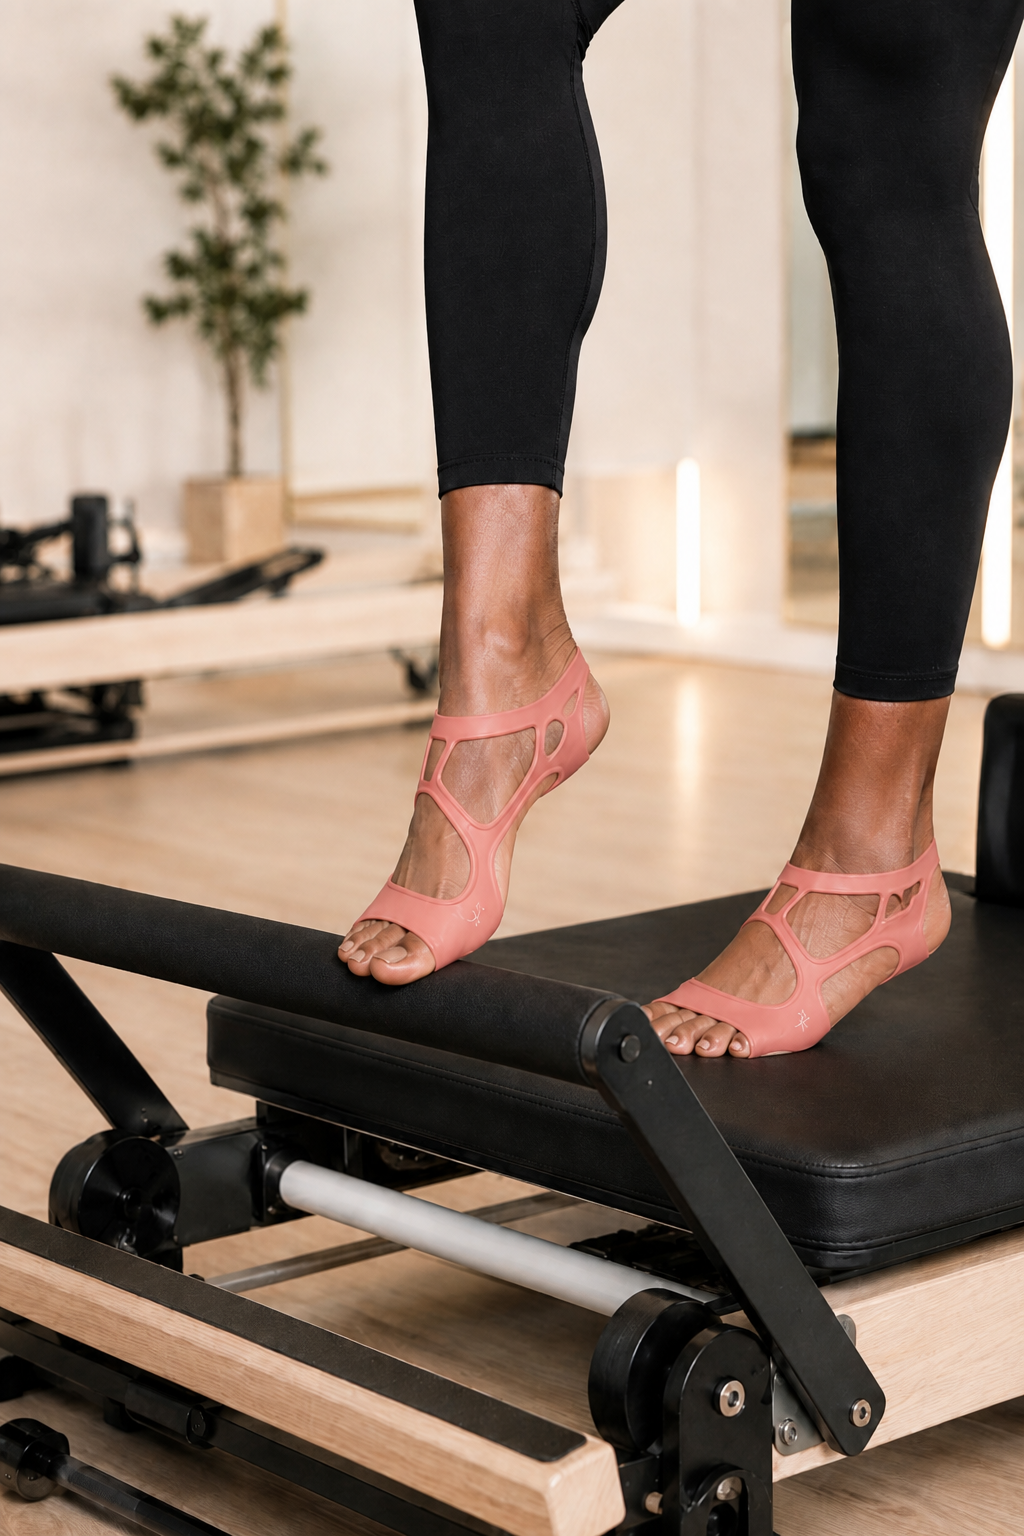
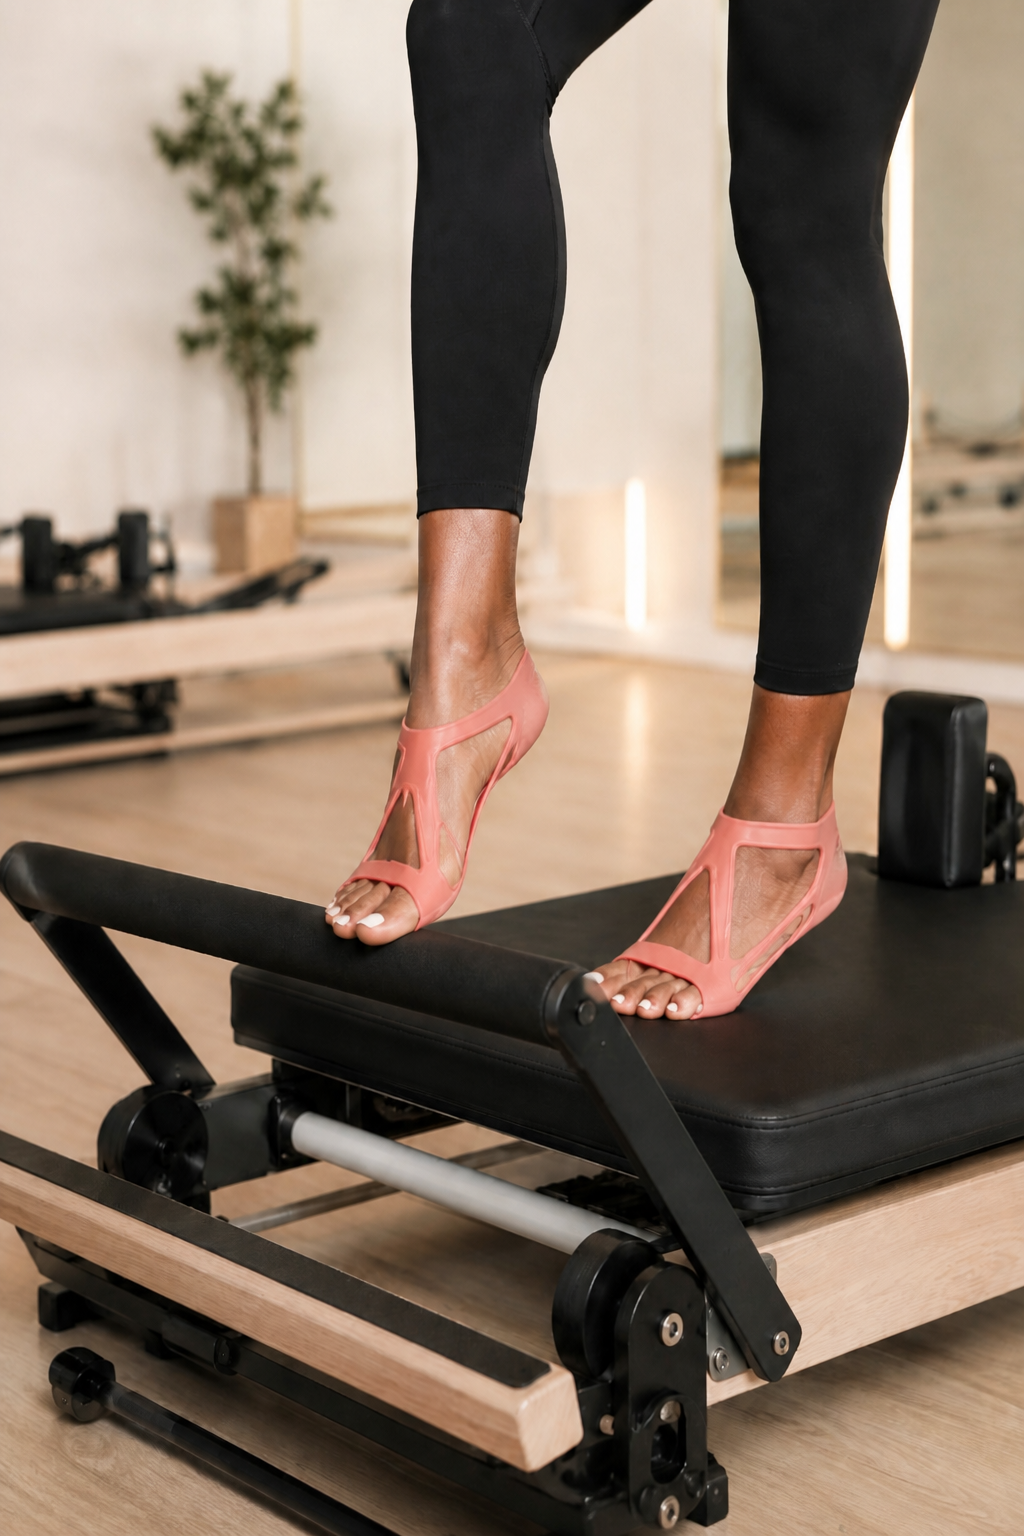
Last pass: copy homepage/customer close-ups. Skill now holds those refs.

diff --git a/.cursor/skills/barreletics-product-on-foot/SKILL.md b/.cursor/skills/barreletics-product-on-foot/SKILL.md
@@ -2,87 +2,86 @@
 name: barreletics-product-on-foot
 description: >-
   Composite the real Barreletics Performance Skin onto feet by copying website
-  on-foot photos only. Use when putting the shoe on a lifestyle shot, Sock Math
-  photos, ChatGPT studio feet, “add the shoe,” Closed/Open on-foot, or any
-  generated product-on-foot image. Never invent a new shoe from a packshot.
+  close-ups of the shoe already on a foot. Use when adding the shoe to a lifestyle
+  shot, Sock Math photos, ChatGPT studio feet, or any product-on-foot generate.
+  Never invent a shoe. Never use an empty packshot as the only ref.
 ---
 
 # Barreletics product on a foot
 
-Andrew 2026-08-15: *look at pictures on the website with the shoe on a foot and just copy that.*
+Andrew 2026-08-15: *look at existing images on feet. there are plenty of close ups.*
 
-Empty packshots lie. Agents invent sneakers, extra straps, melted cages. **Worn site photos are the only shoe reference.**
+**Read the close-ups in `refs/` before you generate. Those files are the product.**
 
 ## Fail closed
 
 - Do **not** invent a shoe.
 - Do **not** use `A14_TopBottom_*` / `Outside_Black` as the only shoe ref.
-- Do **not** ship a composite Andrew would call “on drugs.”
-- If the output does not match a worn site photo → delete it. Try once more. Then stop.
+- Do **not** feed a previous generated attempt as a shoe ref (it drifts).
+- If it does not match `refs/closeup-coral-putting-on.jpg` geometry → delete. One retry. Then stop.
 
-Copy law still applies in any caption: Closed Sole = *heel and foot fully covered.* Never “fully enclosed.”
+## Mandatory close-ups (in this skill)
 
-## Worn refs (download these, then look)
+Look at these files. Do not skip.
 
-| File | URL | Why |
-|---|---|---|
-| Yellow / blue on foot | `https://barreletics.com/cdn/shop/products/Yellow_Image-Blue_Shoe_1200x1200_59ef7b79-1661-4c2f-a2da-c6b9211e2c42.jpg` | Best 3/4. Blue skin on a real foot. |
-| P5A7000 coral | `https://cdn.shopify.com/s/files/1/0045/0612/4391/files/P5A7000_blue_background_2.jpg` | Coral on a real foot. Blue backdrop. |
-| IMG_2917 | `https://barreletics.com/cdn/shop/files/IMG_2917.jpg` | Coral on a real foot. Maroon backdrop. |
-| Stef run | `https://barreletics.com/cdn/shop/products/barreletixxstefrunningpinkbackground.jpg` | Blue on foot, full body, stride. |
-| Jumping | `https://barreletics.com/cdn/shop/products/barreletixxjumpingtogether.jpg` | Coral on two pairs of pointed feet. |
-| Customer gray | `https://review-images.judgeme.com/barreletics/1774226614__img_9682__original.jpeg` | Gray on both feet, yoga mat, top view. |
-| Customer rose | `https://review-images.judgeme.com/barreletics/1778161226__9063__original.jpg` | Dusty rose on dark skin, wood, top view. |
+| File | What it is |
+|---|---|
+| `refs/closeup-coral-putting-on.jpg` | Homepage. Both feet. Hands putting coral on. **Best geometry.** |
+| `refs/closeup-coral-held.jpg` | P5A7000. Coral on a pointed foot, blue backdrop. |
+| `refs/closeup-blue-held.jpg` | Yellow backdrop. Blue on a pointed foot. |
+| `refs/closeup-rose-customer.jpg` | Judge.me. Dusty rose on dark skin, top view. |
+| `refs/closeup-gray-customer.jpg` | Judge.me. Gray on both feet, yoga mat, top view. |
 
-Local copies (if present): `docs/sock-math-photos/on-foot/`
+CDN if you need a fresh download:
 
-**Do not use as on-foot truth:** `IMG_2704` (hands holding product), mesh-bag reviews, empty `Multi_Image` lineup, Open keep shots (`IMG_5051`, `IMG_3158`, `Square_Pink`) unless Andrew names Open.
+- `https://cdn.shopify.com/s/files/1/0045/0612/4391/files/65797B34-D7D3-41DE-A279-F3779BBFB06C.jpg`
+- `https://cdn.shopify.com/s/files/1/0045/0612/4391/files/P5A7000_blue_background_2.jpg`
+- `https://barreletics.com/cdn/shop/products/Yellow_Image-Blue_Shoe_1200x1200_59ef7b79-1661-4c2f-a2da-c6b9211e2c42.jpg`
+- `https://review-images.judgeme.com/barreletics/1778161226__9063__original.jpg`
+- `https://review-images.judgeme.com/barreletics/1774226614__img_9682__original.jpeg`
 
-## What the worn shoe actually looks like
+## Exact geometry (copy, do not improve)
 
-Copy this geometry. Do not “improve” it.
+From `closeup-coral-putting-on.jpg` and the customer top-views:
 
-- One-piece thin molded polymer. Second skin. Not a sneaker. Not a sock.
-- Heel cup / heel wrap. Small **white asterisk / dragonfly** on the outer heel.
-- Geometric cutouts on the instep (usually a center opening + side openings).
-- Band across the ball of the foot. Toes often show at the front.
-- Thin sole that follows the foot. Sits **flush** on skin — no floating straps, no melted edges.
-- Five toes. Normal ankle. No extra limbs.
+1. **Toe band** — one horizontal band across the base of the toes. Toes stick out the front. Not a flip-flop thong. Not a closed sneaker toe.
+2. **Top of foot** — **three** openings: one center triangle + one on each side. That is the whole pattern. No extra lattice. No extra Y-straps.
+3. **Heel** — a wrap from the midfoot around the back of the heel. Small **white asterisk / dragonfly** on the outer heel.
+4. **Material** — one-piece thin matte polymer. Flush on skin. Sharp edges. Not melted. Not a sock. Not a sneaker.
+5. **Anatomy** — five toes. Normal ankle. No extra fingers.
 
-Color = the worn ref you picked (coral, blue, gray, dusty rose). Recolor only if Andrew names a color **and** you keep this geometry.
+Color = the close-up you picked (coral, blue, dusty rose, gray).
 
 ## Workflow
 
-1. Download 2 worn refs in the color you will use. **Read them.**
-2. Generate with references in this order:
-   1. lifestyle / barefoot scene (locked)
-   2. worn on-foot #1
-   3. worn on-foot #2 (same product, same color if possible)
-3. Use the prompt below. Do not add packshots unless a third ref is a **worn** 3/4.
-4. Read the output. Compare to the worn refs.
-5. Kill it if: extra toes, melted straps, sneaker tongue, random lattice, shoe growing out of skin, Open cage when the job is Closed and Andrew said copy site photos but the result is a new design.
-6. Put survivors on the mock. Do not push Shopify until Andrew names a theme ID.
+1. **Read** the matching close-up(s) in `refs/`.
+2. Generate with refs in this order only:
+   1. locked lifestyle / barefoot scene
+   2. close-up #1 (same color)
+   3. close-up #2 (same product family)
+3. Prompt below. Do not add packshots. Do not add prior generates.
+4. Compare output to the close-up. Kill if cutout count is wrong, thong appears, or edges melt.
+5. Mock only. No Shopify push until Andrew names a theme ID.
 
-## Prompt (paste, then only swap color + scene notes)
+## Prompt
 
 ```
-Copy the Barreletics Performance Skin EXACTLY as it is worn in the website photos (images 2 and 3). Do not redesign.
+Copy the Barreletics Performance Skin from the website close-ups (images 2 and 3). Do not redesign.
 
 Image 1 is the locked scene. Do not change camera, crop, lighting, body, clothes, or studio. Replace only the bare feet.
 
-The shoe must match the worn photos:
-- same thin molded polymer
-- same heel wrap and small white asterisk logo on the outer heel
-- same geometric cutouts, same count, same shapes
-- same band across the ball of the foot
-- same toe opening
-- flush on the skin, not floating, not melted
-- five toes, normal anatomy
+Exact geometry from the close-ups:
+- one band across the base of the toes; toes visible in front
+- THREE openings on top of the foot: center triangle + one each side
+- heel wrap from midfoot around the back of the heel
+- small white asterisk logo on the outer heel
+- thin matte polymer, flush on skin, sharp edges
+- five toes
+- NO flip-flop thong, NO extra lattice, NO sneaker, NO socks
 
-Color: [coral | blue | gray | dusty rose] matching the worn photos.
-No sneaker. No extra straps. No invented lattice. No socks.
+Color: [coral | blue | dusty rose | gray] matching the close-ups.
 ```
 
 ## After a miss
 
-Andrew already rejected two invented sets. Next miss → stop generating. Ask which worn site photo to copy more closely. Do not keep rolling dice.
+Stop. Ask which close-up to match. Do not keep rolling dice.
